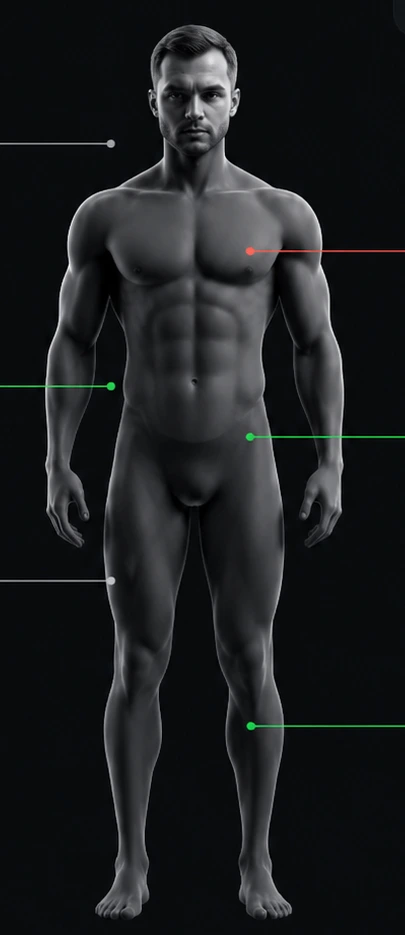
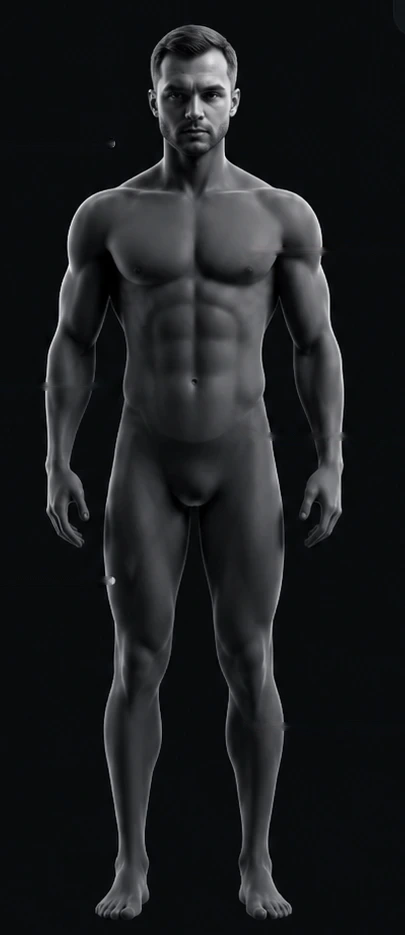
v3

diff --git a/src/styles.css b/src/styles.css
@@ -112,23 +112,23 @@ h2 {
 
 .figureGrid {
   display: grid;
-  grid-template-columns: 1fr 168px 1fr;
-  gap: 10px;
+  grid-template-columns: 1fr 176px 1fr;
+  gap: 12px;
   align-items: center;
-  min-height: 408px;
+  min-height: 455px;
 }
 
 .figureBox {
-  height: 392px;
+  height: 438px;
   position: relative;
   display: grid;
-  place-items: center;
+  place-items: start center;
   filter: drop-shadow(0 26px 28px rgba(0,0,0,.42));
 }
 
 .bodyFigure {
-  width: 168px;
-  height: 390px;
+  width: 176px;
+  height: 382px;
   object-fit: contain;
   object-position: center bottom;
   display: block;
@@ -139,12 +139,12 @@ h2 {
 .measureColumn {
   display: flex;
   flex-direction: column;
-  gap: 18px;
+  gap: 24px;
 }
 
 .measureColumn.right {
   align-self: start;
-  padding-top: 42px;
+  padding-top: 34px;
 }
 
 .measureItem {
@@ -167,6 +167,51 @@ h2 {
   margin-top: 4px;
   font-size: 13px;
   font-weight: 800;
+}
+
+.weightPill {
+  position: absolute;
+  left: 50%;
+  bottom: 0;
+  transform: translateX(-50%);
+  min-width: 146px;
+  border: 1px solid var(--line);
+  background: rgba(10, 12, 15, .72);
+  border-radius: 20px;
+  padding: 12px 14px;
+  text-align: center;
+  backdrop-filter: blur(12px);
+}
+
+.weightPill span,
+.weightPill em {
+  display: block;
+  font-size: 12px;
+  color: var(--muted);
+  font-style: normal;
+}
+
+.weightPill b {
+  display: block;
+  margin-top: 3px;
+  font-size: 25px;
+  line-height: 1.05;
+  letter-spacing: -.04em;
+}
+
+.weightPill em {
+  margin-top: 4px;
+  font-weight: 850;
+}
+
+.heightNote {
+  margin-top: -8px;
+  color: var(--muted);
+  font-size: 13px;
+}
+
+.heightNote b {
+  color: var(--soft);
 }
 
 .good {
@@ -555,13 +600,23 @@ h2 {
   }
 
   .figureGrid {
-    grid-template-columns: 1fr 148px 1fr;
+    grid-template-columns: 1fr 150px 1fr;
     gap: 6px;
+    min-height: 430px;
+  }
+
+  .figureBox {
+    height: 418px;
   }
 
   .bodyFigure {
-    width: 148px;
-    height: 370px;
+    width: 150px;
+    height: 354px;
+  }
+
+  .weightPill {
+    min-width: 130px;
+    padding: 10px 12px;
   }
 
   .measureValue {

diff --git a/src/storage.js b/src/storage.js
@@ -1,10 +1,10 @@
 const PREFIX = 'merka.react.v1.'
 
 const seedMeasurements = [
-  { id: 1, date: '2026-05-01T09:00', weight: 89, height: 170, chest: 102, waist: 91, belly: 98, hips: 104, leg: 58, note: '' },
-  { id: 2, date: '2026-05-08T09:00', weight: 88, height: 170, chest: 102, waist: 90, belly: 96, hips: 103, leg: 58, note: '' },
-  { id: 3, date: '2026-05-15T09:00', weight: 86, height: 170, chest: 103, waist: 88, belly: 94, hips: 102, leg: 58, note: '' },
-  { id: 4, date: '2026-05-22T09:00', weight: 85, height: 170, chest: 104, waist: 86, belly: 92, hips: 101, leg: 58, note: '' },
+  { id: 1, date: '2026-05-01T09:00', weight: 89, height: 170, shoulders: 118, chest: 102, waist: 91, belly: 98, hips: 104, leg: 58, note: '' },
+  { id: 2, date: '2026-05-08T09:00', weight: 88, height: 170, shoulders: 118, chest: 102, waist: 90, belly: 96, hips: 103, leg: 58, note: '' },
+  { id: 3, date: '2026-05-15T09:00', weight: 86, height: 170, shoulders: 117, chest: 103, waist: 88, belly: 94, hips: 102, leg: 58, note: '' },
+  { id: 4, date: '2026-05-22T09:00', weight: 85, height: 170, shoulders: 117, chest: 104, waist: 86, belly: 92, hips: 101, leg: 58, note: '' },
 ]
 
 const seedClothes = {
